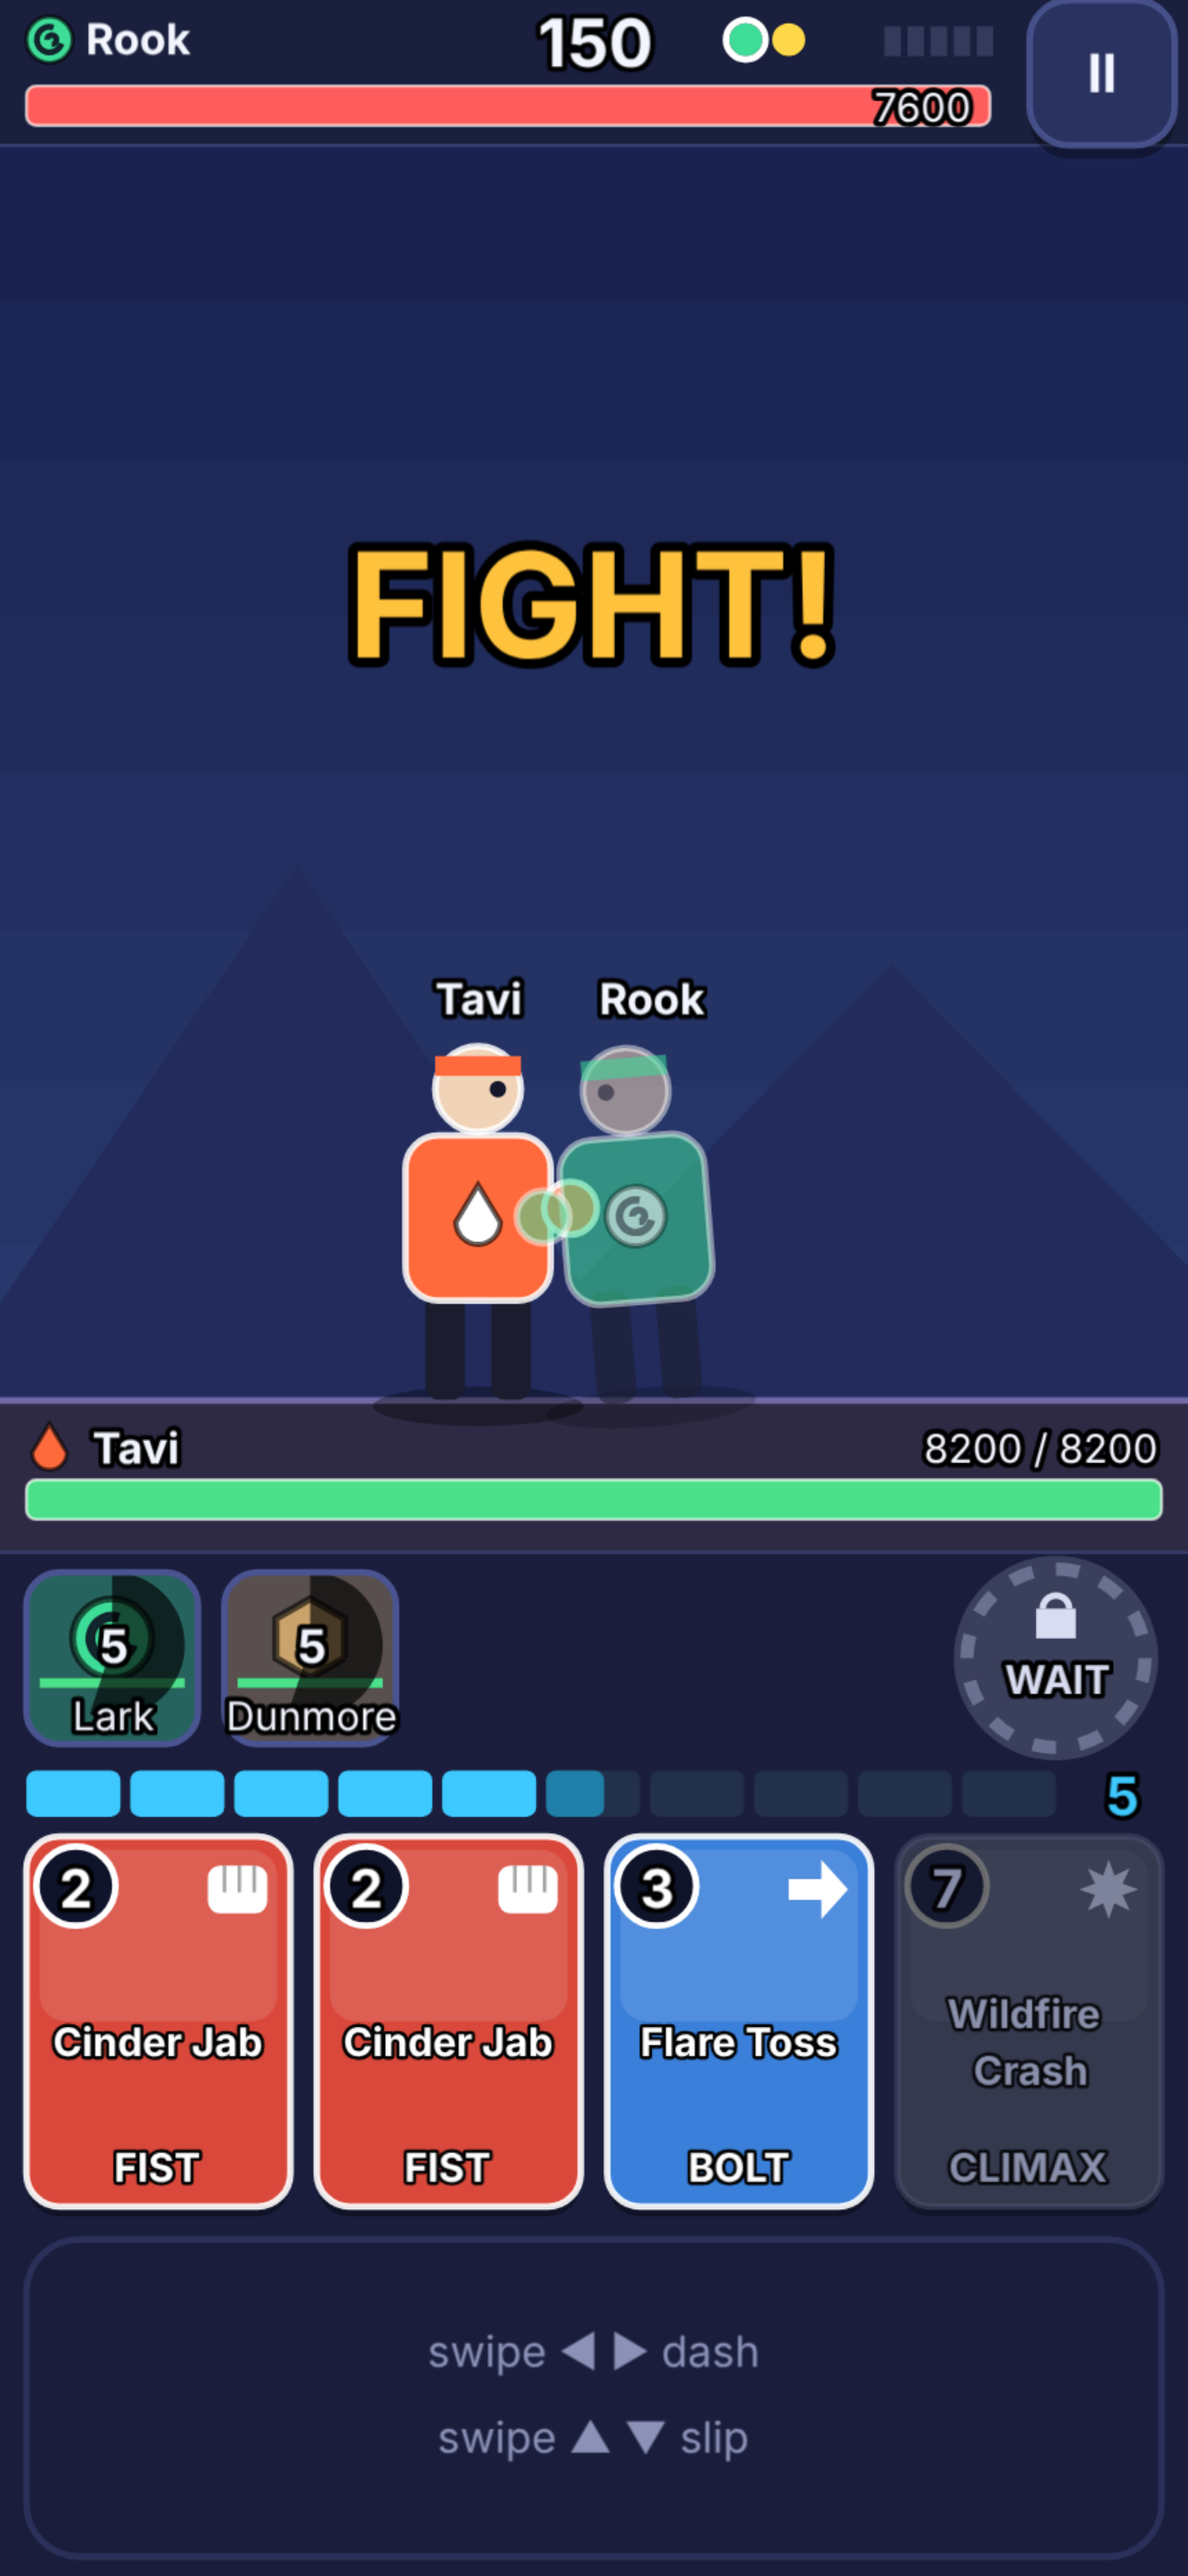
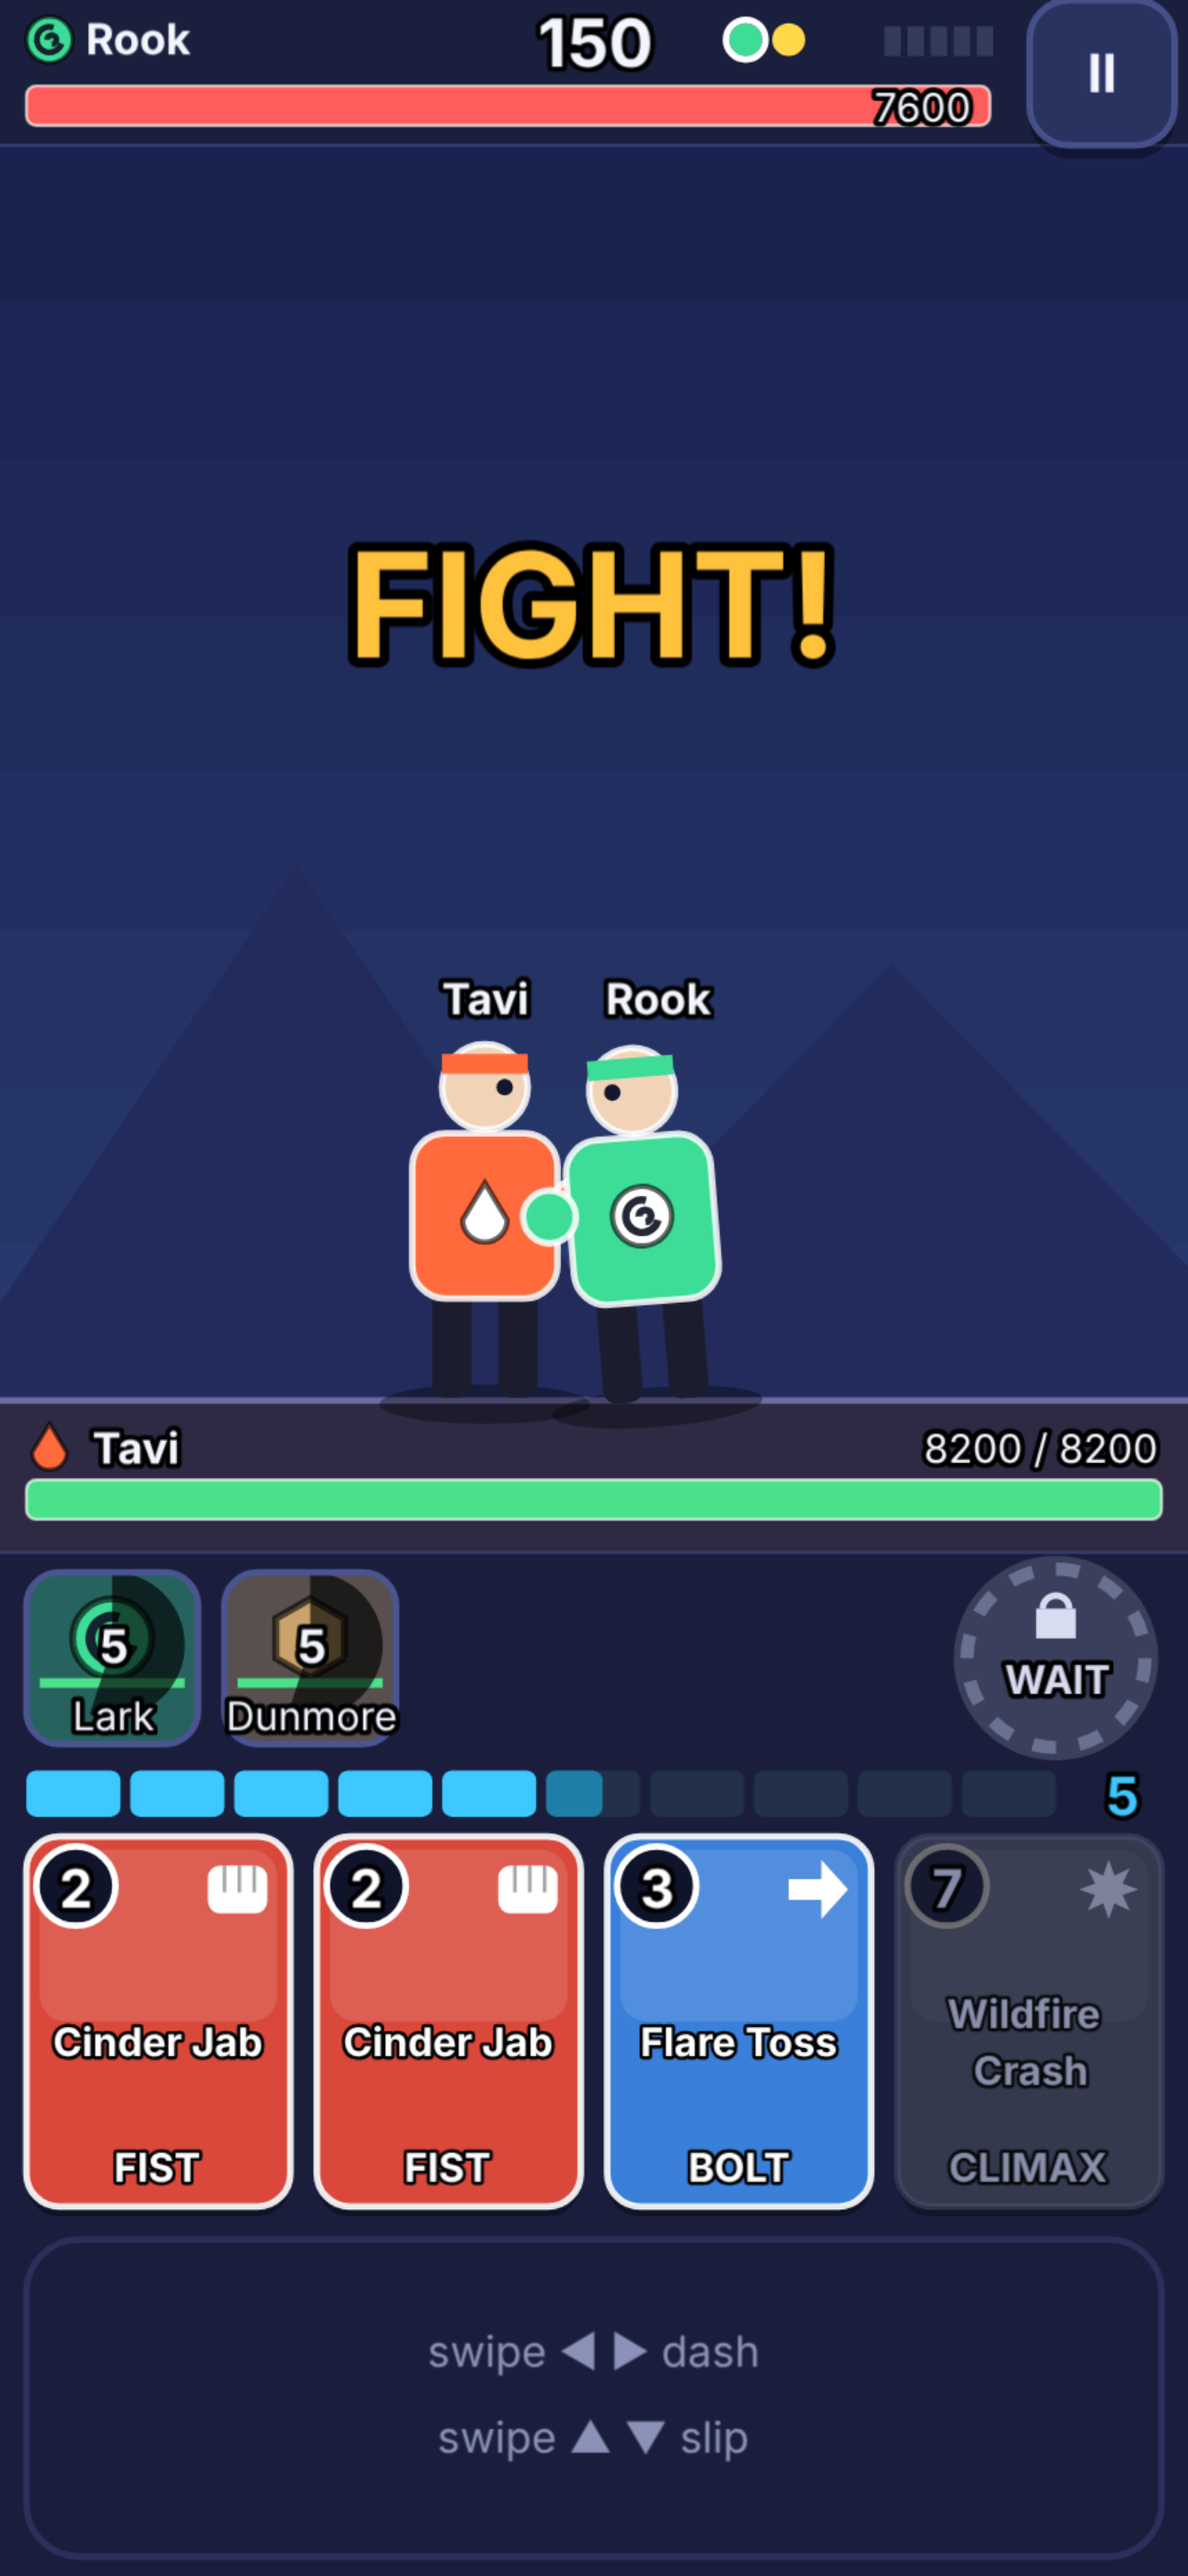
round 3: balance pass — stage curve and mirror outliers, 20 in-band changes (balance-analyst)
Claude-Session: https://claude.ai/code/session_018b5jBk1aEezocPJURsi7dC

Changed region(s): [[0.3411, 0.3734, 0.6202, 0.5601]]

diff --git a/tests/e2e/smoke.spec.js b/tests/e2e/smoke.spec.js
@@ -200,7 +200,8 @@ test('default renderer (WebGL) boots to battle with no console errors', async ({
   const errors = watchErrors(page);
   await goToBattle(page, testInfo, false, '');
   expect(await page.evaluate(() => window.__TEST__.game.renderer.type)).toBe(2); // Phaser.WEBGL
-  await page.waitForFunction(() => window.__TEST__.battleState().phase === 'fight', null, { timeout: 15000 });
+  // software WebGL at dpr 3 runs at a few fps in headless Chromium: allow 30 s for the 2 s intro
+  await page.waitForFunction(() => window.__TEST__.battleState().phase === 'fight', null, { timeout: 30000 });
   await shot(page, testInfo, '19-battle-webgl');
   await checkTargets(page, 'Battle');
   expect(errors, errors.join('\n')).toEqual([]);

diff --git a/reports/balance/round-3.md b/reports/balance/round-3.md
@@ -1,0 +1,65 @@
+# Balance report — round 3 (balance-analyst)
+
+Read first: playbook + hard rules (none), lessons/_shared.md, lessons/balance-analyst.md (empty), GAME_BRIEF, GDD §5 (incl. §5.14, §5.15), §6, §7, §8, §9.2, §12, round-1/2 notes (no balance notes in them; the known issues come from STATUS.md), src/logic/README.md.
+
+## Method
+- Harness: `tests/sim/balance/` (lib.mjs, worker.mjs, balance.mjs, bands.mjs). It runs the real engine headlessly and patches data in memory to test changes. Seeds are fixed, and runs are parallel.
+  `node tests/sim/balance/balance.mjs stages|mirror|cards|sweep|stagesweep|selftest`.
+  `BALANCE_LOGIC=<index.js>` selects which copy of the engine to run (used to pin a snapshot while src/ was being edited in parallel).
+- Harness proof (L-shared-006): `selftest` passes. On stage_003 at fighter tier the baseline is 78.0% win, 69.7 s. Enemy ATK ×3 drops it to 0.5%, Tavi HP 100 to 1.5%, and Vigor regen 0.25/s lengthens battles to 160.2 s. Unknown patch ids and fields throw. Results are identical to `scripts/sim.js` on 200 seeds (0 mismatches).
+- `bands.mjs` checks GDD §6 bands, §6 Ignition guidance, §7 budgets and §8 stat_mult. It passes on old and new data. It FAILs on 4 broken inputs: Fist power 9.9, ★3 ATK 2000, Ignition heal 0.2, stat_mult.hp 0.2.
+- "Good play" = a **veteran**-tier AI playing the player side. "Average play" = fighter tier. The mirror test is 1v1 with equal rarity, stat_mult 1.0, Ignition on, both sides at the same tier, every pair played from both sides.
+
+## Engine finding that changes balance (MAJOR, gameplay-programmer)
+`src/logic/ai.js` `reactiveDodge()`: when the slip roll fails, it sets `this.watched = null`. On the next tick the same windup is picked up again with `reactAt` already in the past, so the AI rolls again every tick until the hit. GDD §5.15 says one roll. Measured share of Climax windups slipped: rookie 45% (slip_chance 0.10), fighter 69% (0.25), veteran 81% (0.40), master 84% (0.55). With a one-roll fix (scratch copy only): 6/15/32/37%. Effect today: 87% of Climaxes whiff, which also applies to a human player's Climaxes. Characters with fast Fists are favoured and characters with slow beams are punished.
+The fix is to drop `this.watched = null` in the three "no slip" branches (keep the windup marked as decided). The tuning below targets the GDD-correct AI. The current AI is also shown.
+
+## Stage curve (starter team, 2,500 battles per cell)
+| Stage | Before, current AI (fighter / veteran) | After, fixed AI (fighter / veteran / master) | After, current AI (fighter / veteran) |
+|---|---|---|---|
+| stage_001 | 100 / 100 | 100 / 100 / 100 | 100 / 100 |
+| stage_002 | 100 / 100 | 100 / 100 / 100 (rookie 99.6) | 100 / 100 |
+| stage_003 | 80.6 / 96.8 | 83.9 / 80.8 / 84.4 | 78.2 / 95.7 |
+| stage_004 | 5.4 / 37.6 | 49.3 / 50.3 / 56.2 | 27.9 / 69.4 |
+| stage_005 | 0.0 / 0.4 | 24.2 / 26.0 / 35.2 | 3.8 / 33.6 |
+Each stage is harder than the last: win rate goes down at every tier, and for stages 1→2 player HP left drops from 89.6% to 72.3%.
+
+## Mirror win rate (2,000 per ordered pair, same fresh seeds before/after)
+| | Tavi | Lark | Dunmore | Pell | Thessa | Rook | Solenne | Corvane |
+|---|---|---|---|---|---|---|---|---|
+| Before, fixed AI, fighter | **74.0** | 48.1 | **28.0** | **66.3** | 45.2 | **38.6** | **38.0** | **62.0** |
+| Before, fixed AI, veteran | **76.4** | 45.0 | **28.6** | **61.5** | **39.3** | 49.2 | 41.1 | 58.9 |
+| After, fixed AI, fighter | 57.3 | 45.2 | 47.5 | 58.2 | 47.8 | 44.0 | 41.8 | 58.2 |
+| After, fixed AI, veteran | **62.7** | 42.1 | 45.2 | 51.4 | 42.2 | 56.3 | 44.1 | 55.9 |
+| After, current AI, veteran | **~61.8** | ~49 | **~38.9** | 46.4 | **34.6** | **69.0** | 42.1 | 57.9 |
+(The current-AI row was measured before the Lark change and moves by about 1 point.) Remaining outlier: Tavi 62.7% at veteran. Without his Ignition all three ★3 sit at 47–53%. The rest needs Ignition fields that the GDD §5.9 examples and tests pin (see Needs designer).
+
+## Changes (all inside GDD §6/§7/§8)
+| File | ID.field | Old → New | Why |
+|---|---|---|---|
+| characters | char_tavi_001.base_stats.atk | 950 → 850 | Tavi ★3 outlier (Ignition) |
+| cards | card_tavi_overheat_barrage.power | 3.2 → 2.75 | same (Ignition deck) |
+| cards | card_tavi_meltdown_meteor.power | 7.2 → 6.5 | same (Ignition Climax) |
+| characters | char_dunmore_001.base_stats.atk | 850 → 950 | Dunmore 28% |
+| cards | card_dunmore_riverstone_jab.power | 1.2 → 1.3 | same |
+| cards | card_dunmore_bulwark_palm.power | 0.9 → 1.0 | same |
+| cards | card_dunmore_skipping_stone.power | 1.5 → 1.7 | same (lowest damage per play of all Bolts) |
+| cards | card_dunmore_quarry_quake.power | 2.7 → 2.95 | same |
+| cards | card_dunmore_mountain_drop.power | 5.8 → 6.0 | same |
+| characters | char_lark_001.base_stats.atk | 900 → 950 | Lark 39.8% after the above |
+| characters | char_pell_001.ignition.heal_pct | 0.15 → 0.05 | Pell 66% |
+| characters | char_rook_001.base_stats.hp | 9000 → 9500 | Rook 38.6% (fighter) |
+| characters | char_thessa_001.base_stats.hp | 9300 → 9700 | Thessa 39.3% (veteran) |
+| characters | char_corvane_001.ignition.stat_mult.atk | 1.4 → 1.3 | Corvane 62% |
+| enemies | enemy_rook_003 / enemy_pell_002 / enemy_solenne_001 .stat_mult | 1.0 → 0.88 (all three stats) | stage_004 5% → ~50% |
+| enemies | enemy_thessa_002 / enemy_umbral_solenne_001 .stat_mult | 1.05 → 0.75 | stage_005 0% → ~26% veteran |
+| enemies | enemy_corvane_001.stat_mult | 1.2/1.1/1.1 → 1.0/0.7/0.8 | same; boss keeps the highest HP (11,000) |
+Flagged risks checked: Aura Thief's 0.4 swing barely matters (halving its self-buff moved Corvane less than 1 point). Tailwind Kick and Gambit Cyclone are not outliers (Lark and Rook are within 40–60%).
+
+## Needs designer
+1. **Battle length (formula/band change):** stages 3–5 last 64–74 s of timer against the 120–200 s target, and nothing inside the bands can double it. Proposal: **double every HP** (GDD §6 HP bands ×2: ★3 16,000–18,000, ★4 18,000–20,000, ★5 20,000–22,000; `base_stats.hp` ×2; `power_formula` HP coefficient 0.1 → 0.05 so team power stays the same). Sim with fixed AI, fighter / veteran: s3 141 / 152 s, s4 139 / 147 s, s5 144 / 153 s; win rates 89/75, 47/42, 21/20 (stage_005 then needs a small retune). Alternatives measured: HP ×2.5 gives about 175 s but s5 drops to 13% veteran; Vigor regen 0.5/s gives 104–117 s, which is too short and slower to play. Tests pinning 8,200 HP (AC-5.9.1) and AC-8.1 would need updating.
+2. **Tavi Ignition is pinned by GDD examples:** §5.9's example and AC-5.9.1/5.9.3/5.9.6 use Tavi's live values (hp_below 50, ATK ×1.3, 25 s, heal 10%, +0.2 regen), and so do tests/logic/battle-ignition-burst-end.test.js and tests/ui/tutorial-acs.test.js. If those ACs move to a test fixture, setting Tavi's Ignition to heal 0.05, ATK ×1.2, 20 s, regen 0 and hp_below 40 brings him to 59% (measured).
+3. **§9.2 stat_mult table** needs updating to the values above. Stage_005 regulars (0.75) now sit below stage_003 (0.9), because stages 4–5 are ★4/★5 with Ignition and higher AI tiers against ★3 starters. `stages.json` recommended_power was not changed (advisory).
+4. **AI tiers do not model player skill:** as the player side, master ≈ veteran ≈ fighter on stage_003 (84 / 81 / 84). No tier can ever slip a Fist (windup 6–12 ticks is shorter than every reaction_s). The "good play" proxy is weak.
+5. **Tri-Burst rush when the rusher is KO'd (GDD gap and engine, MINOR):** a rusher KO'd mid-rush by a projectile already in flight ends the rush through the safety net 9–10 ticks in. With the new data, AC-5.10.7 (tests/logic/battle-round2.test.js, stage_005 master vs master, seed 90) now fails 1 of 315 tests; seed 3345 also hits it. The old data never reached it on seeds 1–6000.
+6. **Validator gap:** `npm run validate-data` does not check §6 bands or §7 budgets (Fist power 9.9 and ★3 ATK 2000 both PASS). `tests/sim/balance/bands.mjs` covers this now; consider adding it to the validator.
